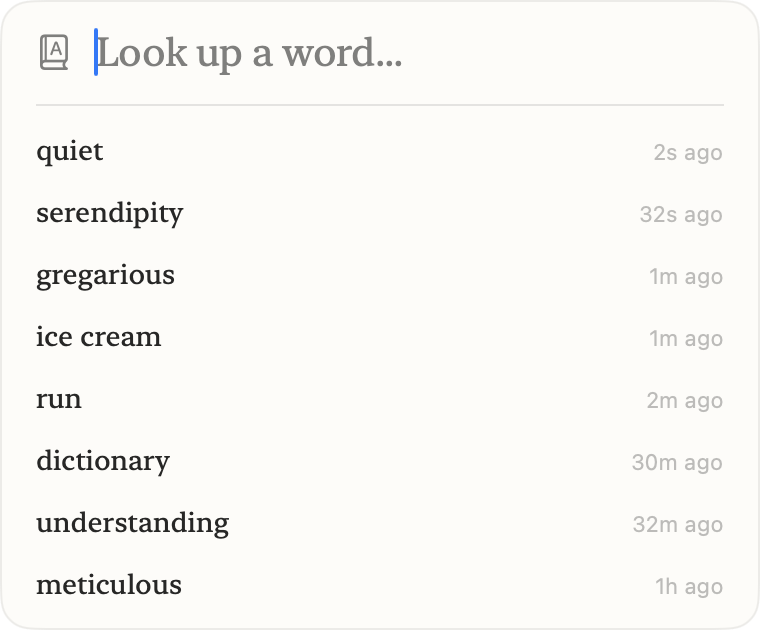
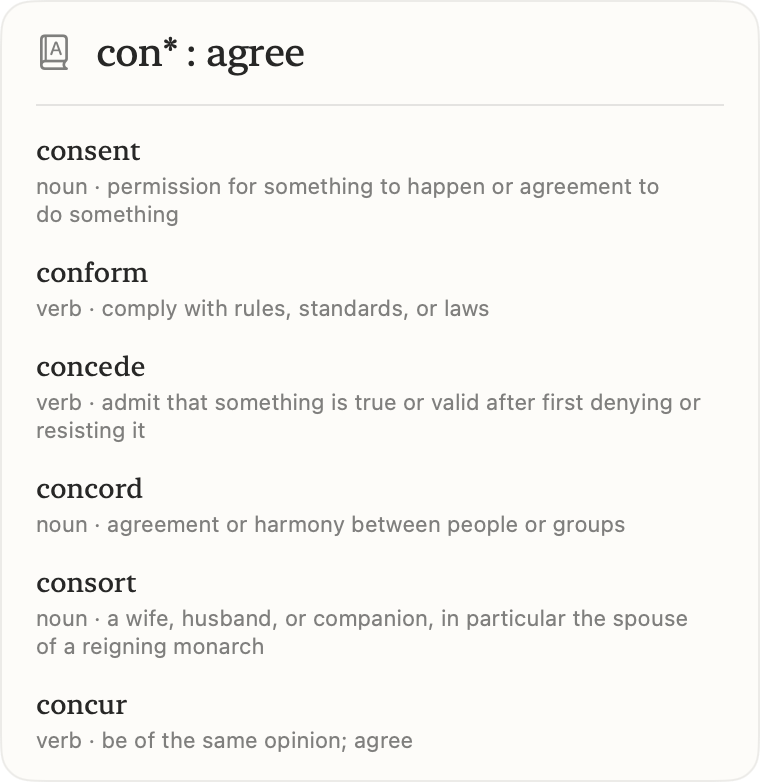
Refresh the README screenshots
The popup screenshot predated most features. The new ones show a word
selected in a sentence (fits, tagged synonyms, tone), a Quick Search
pattern with meanings, and the notes on a selected passage.

diff --git a/README.md b/README.md
@@ -5,9 +5,11 @@ Select a word anywhere on your Mac, press a hotkey, and get its definition, pron
 WordPop lives in the menu bar and stays out of the Dock.
 
 <p align="center">
-  <img src="docs/popup.png" width="380" alt="WordPop popup showing the entry for quiet, with senses, synonyms, antonyms, and rhymes">
-  &nbsp;&nbsp;
-  <img src="docs/quick-search.png" width="380" alt="WordPop Quick Search bar with recent lookups" valign="top">
+  <img src="docs/popup.png" width="300" alt="WordPop popup for meticulous, selected in a sentence: the definition, synonyms that fit the sentence, tagged synonyms, antonyms, rhymes and tone buttons" valign="top">
+  &nbsp;
+  <img src="docs/quick-search.png" width="300" alt="Quick Search with the pattern con* : agree, listing consent, conform, concede, concord, consort and concur with their meanings" valign="top">
+  &nbsp;
+  <img src="docs/passage.png" width="300" alt="Notes on a selected passage: word count, reading grade, a long sentence, possible passive voice, adverbs and repeated words" valign="top">
 </p>
 
 ## Features
